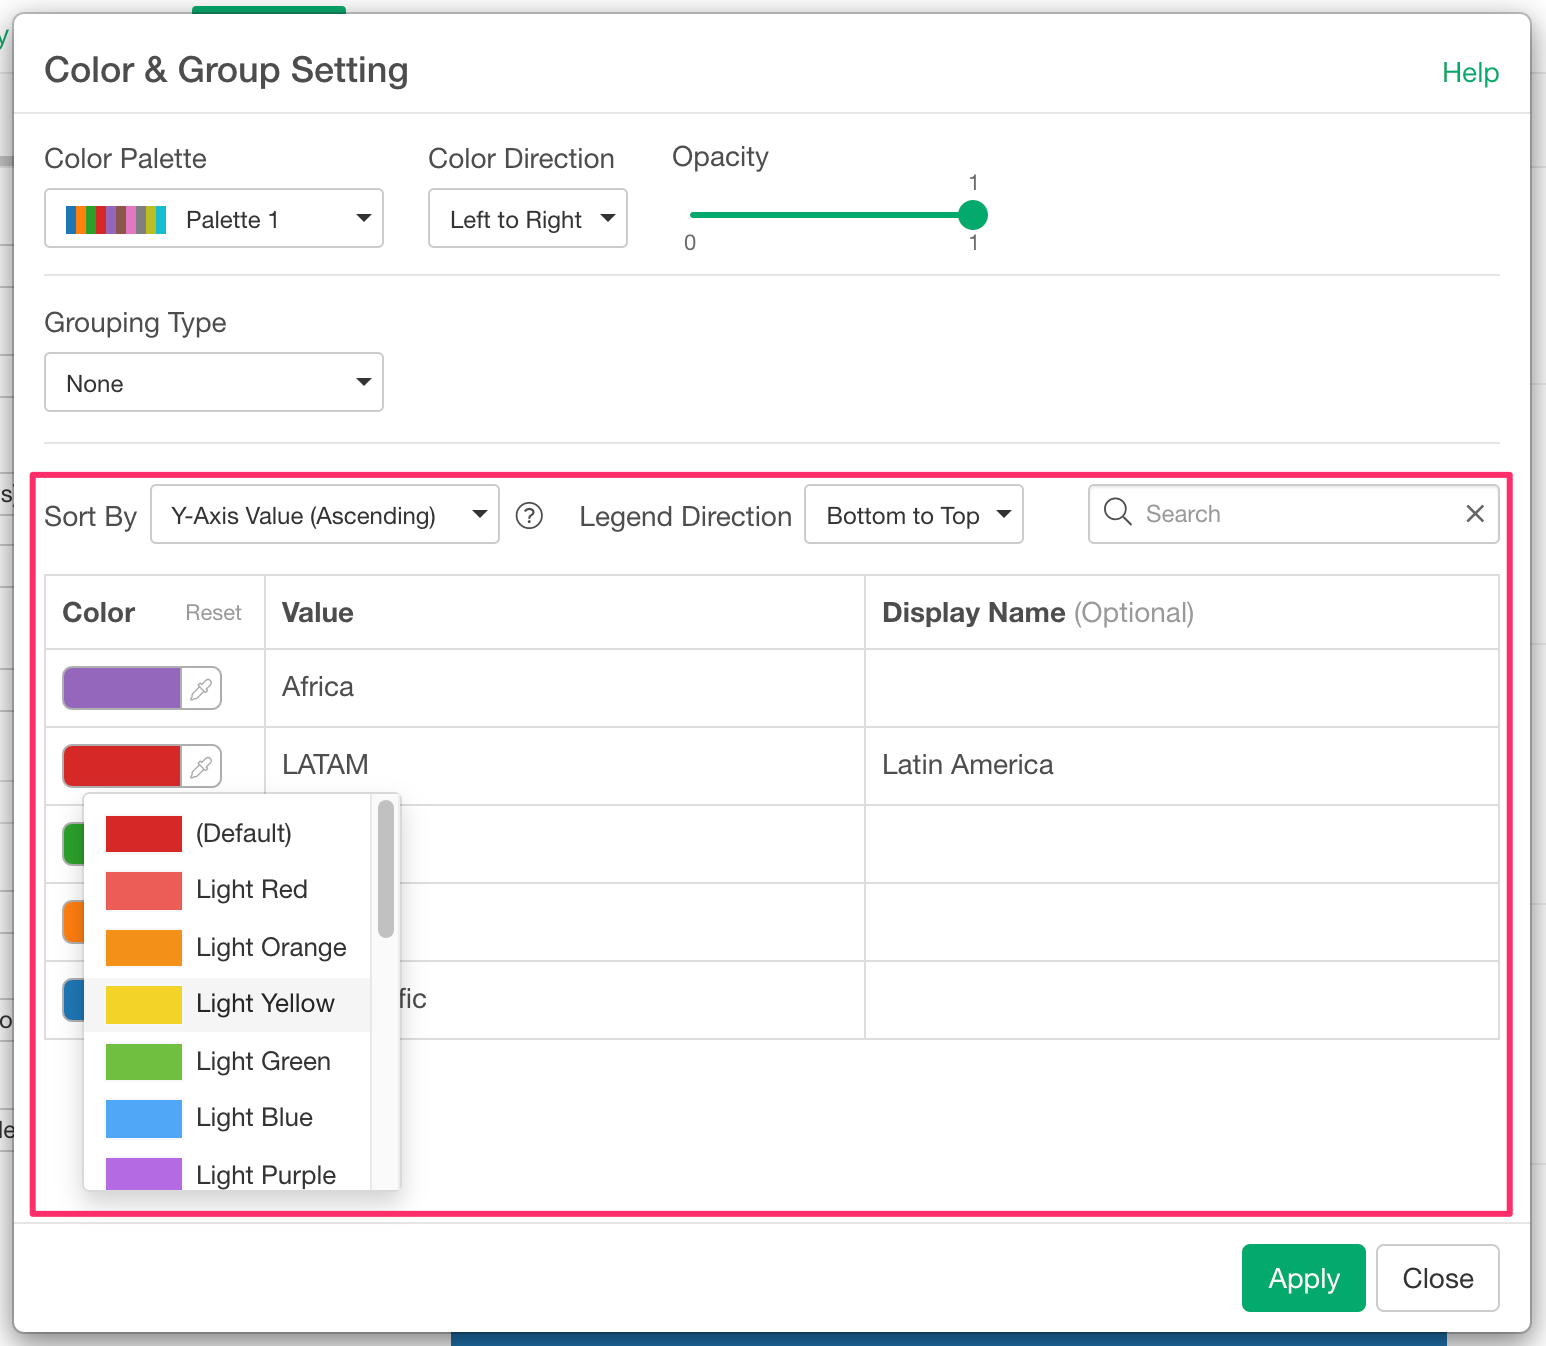
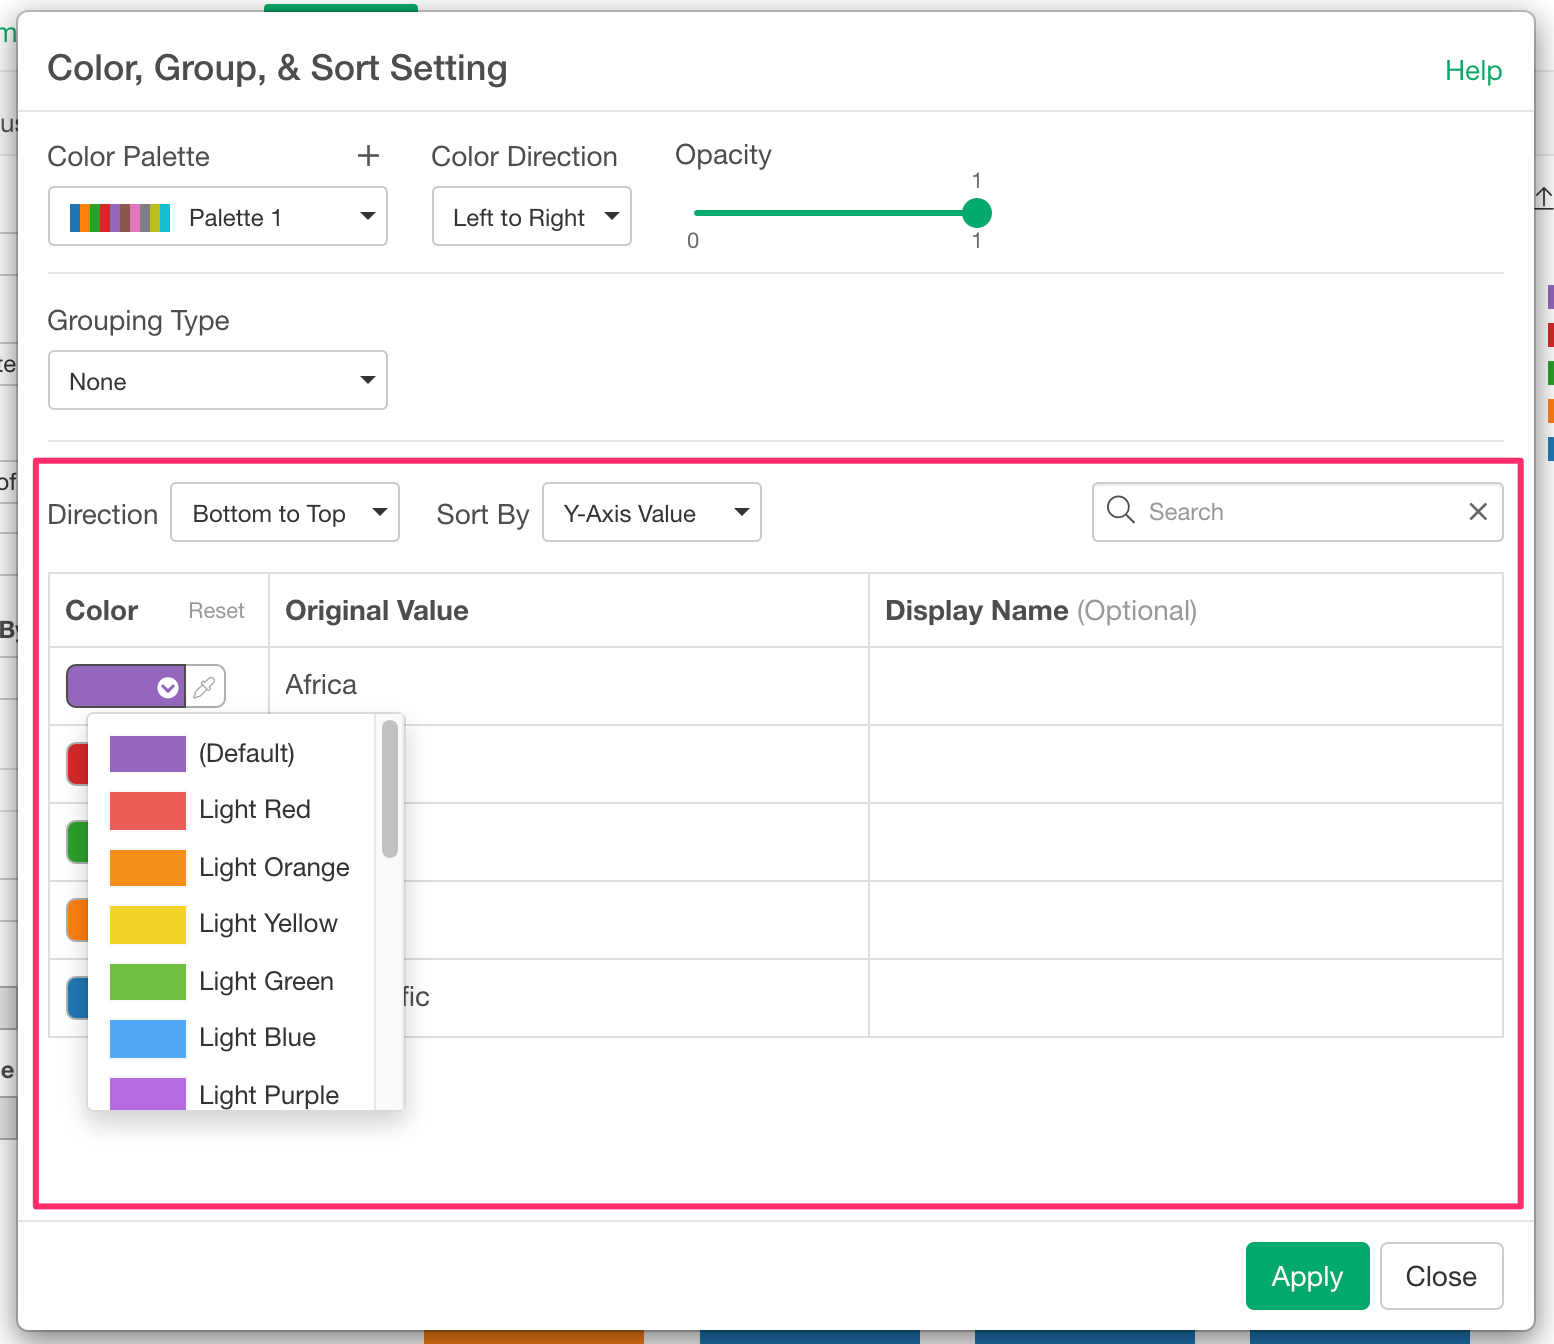
Update color dialog.

diff --git a/viz/color.md b/viz/color.md
@@ -73,22 +73,27 @@ You can customize the color and display name for each category in this section.
 
 The following settings are available.  
 
-* Sort By - You can change the sort order of the values. It is available for Bar (Stacked), Area, and Pie chart types. The following options are available. 
-  * Character type column at Color
-    * Alphabetical (A-Z)
-    * Alphabetical (Z-A)
-    * Y-Axis Value (Ascending)
-    * Y-Axis Value (Descending)
+* Direction - You can choose the sort direction. 
   * Factor type column at Color
     * Factor Level
     * Factor Level (Reversed)
   * For a column with any other type 
     * Top to Bottom
     * Bottom to Top
-* Legend Direction - You can change the direction of how to apply the color palette. It is available for Bar (Stacked) and Area chart types. The following options are available. 
-    * Top to Bottom
-    * Bottom to Top
+* Sort By - You can choose the base values for the sort. It is available on Bar, Line, Area, Pie, Scatter (With Aggregation) and Error Bar, and if you assign a character type column to Color. The following options are available. 
+  * Alphabetical 
+  * Y-Axis Value 
  
+<!--
+Use this once #26183 is in the product.
+
+* Sort By - You can choose the base values for the sort. It is available on Bar, Line, Area, Pie, Scatter (With Aggregation) and Error Bar, and if you assign a character type column to Color. The following options are available. 
+  * Original Value 
+  * Display Name
+  * Y-Axis Value 
+
+-->
+
 
 
 ### Show as 'Others' for not highlighted values
